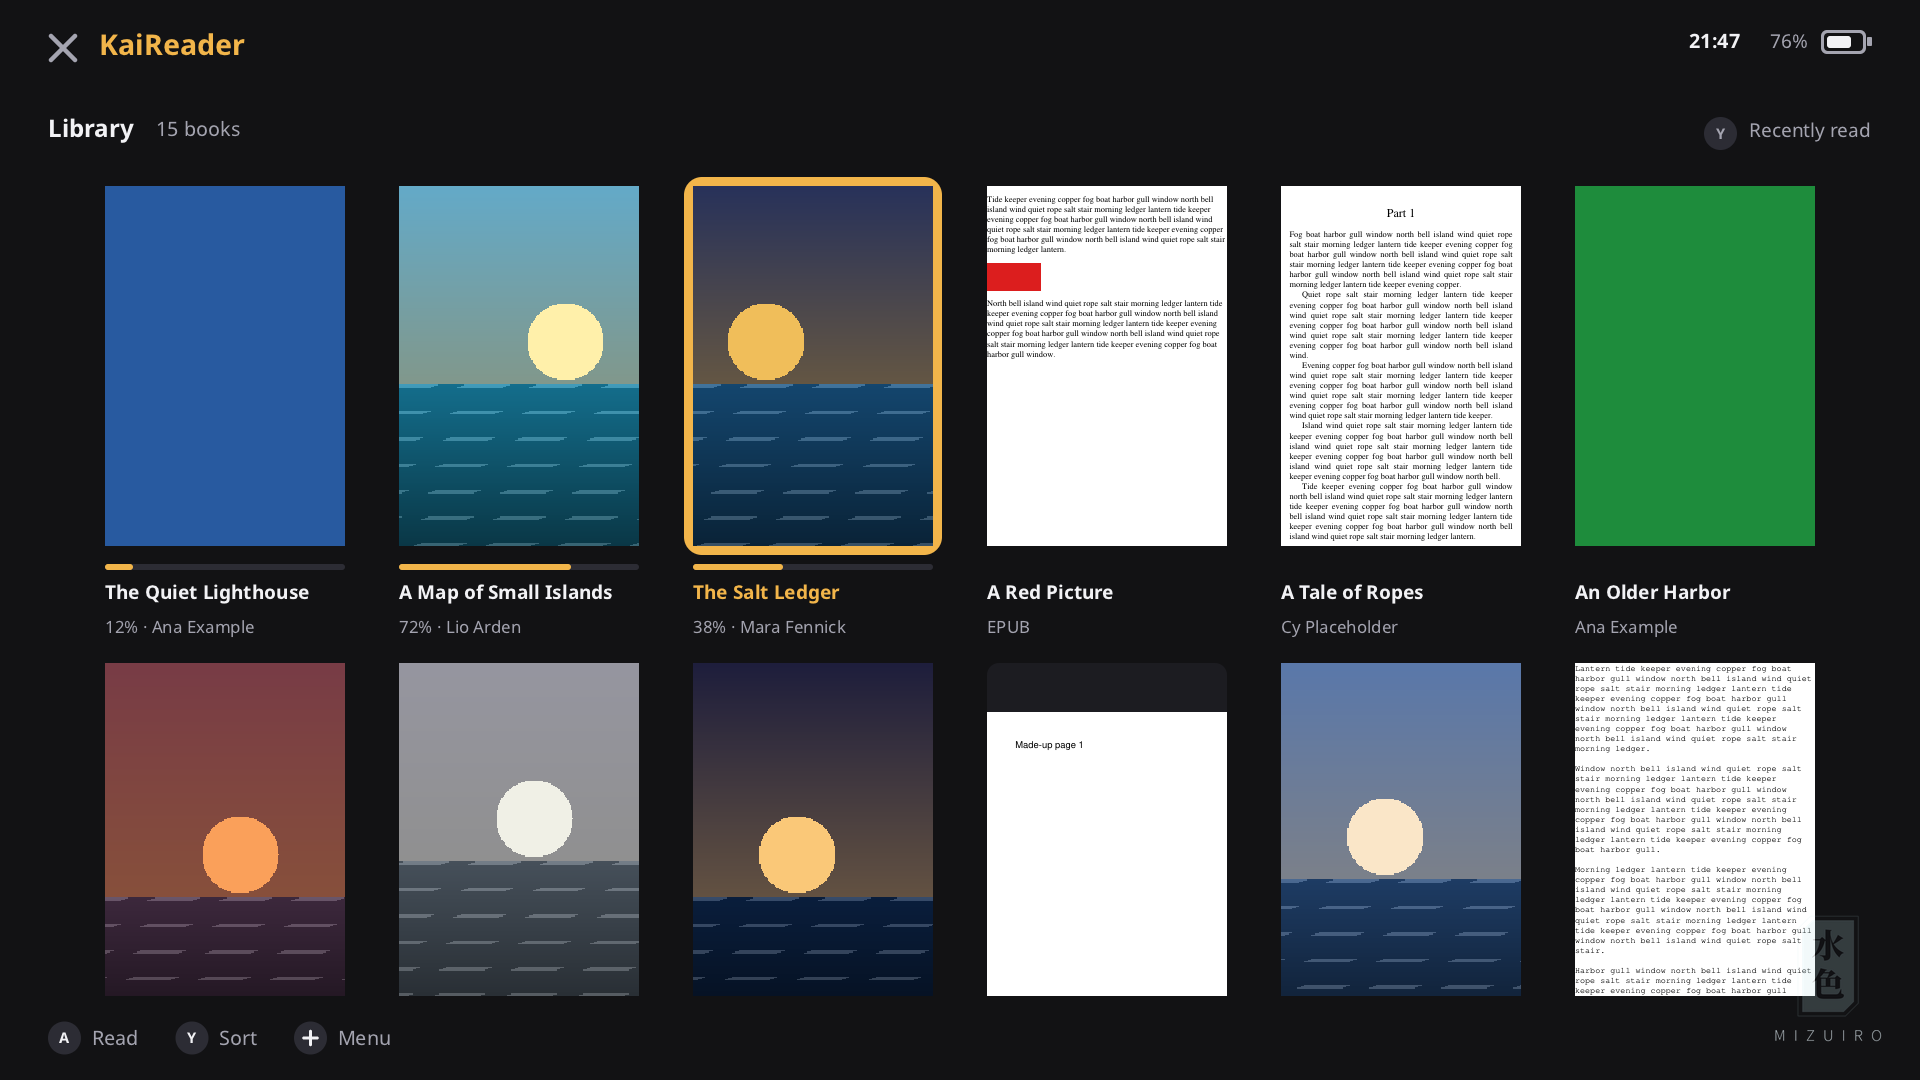
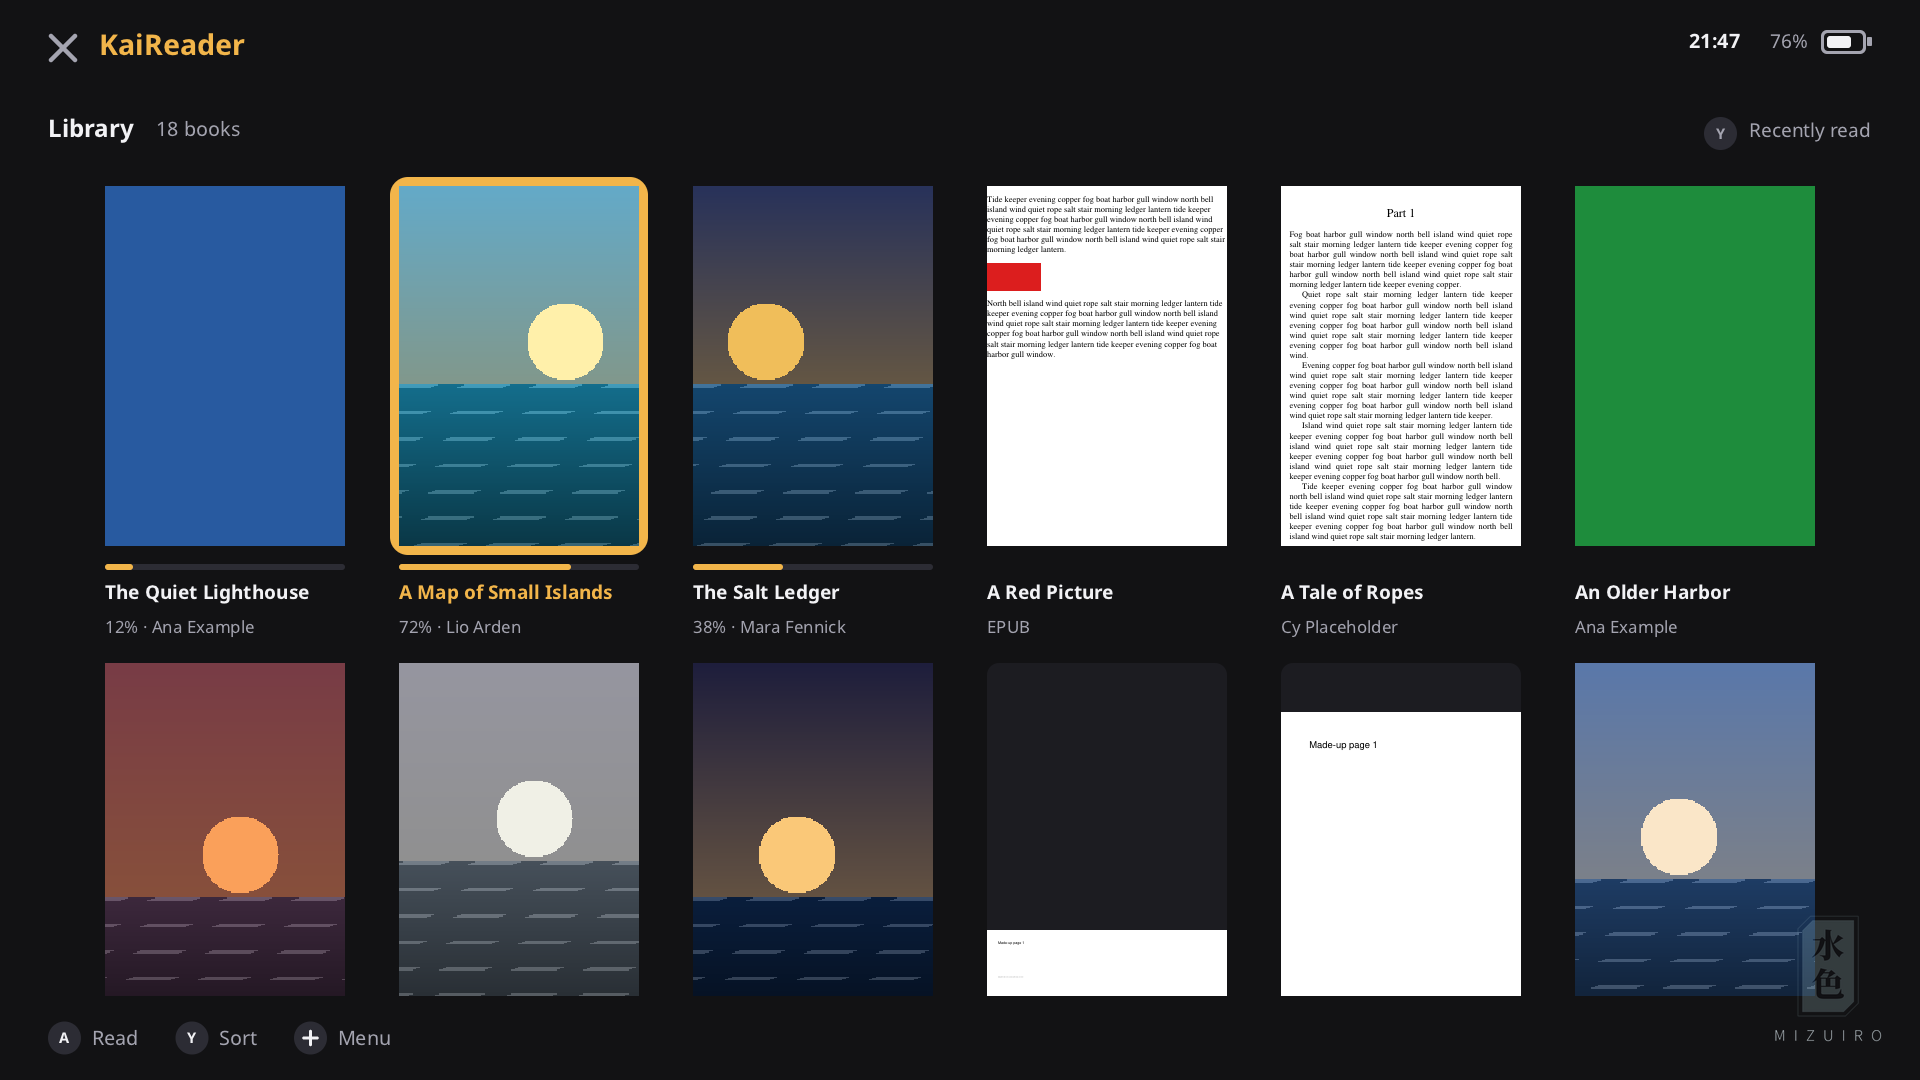
chore: version 0.4.0
The README shows the network folder's library, the list view and
favorites.

Changed region(s): [[0.5, 0.6111, 0.9688, 0.9472], [0.1875, 0.1528, 0.5, 0.5806]]

diff --git a/README.md b/README.md
@@ -21,9 +21,13 @@ comics (**CBZ**, **CBR**, **CB7**, **CBT**), **FB2**, **MOBI**, **TXT** and
 |------------------------------|--------------------|----------|
 | ![Two pages](docs/screenshots/epub-two-pages.png) | ![Sepia](docs/screenshots/epub-sepia-big.png) | ![Settings](docs/screenshots/settings-display.png) |
 
+| A network folder's books | As a list | Favorites |
+|--------------------------|-----------|-----------|
+| ![Network folder](docs/screenshots/network.png) | ![List](docs/screenshots/library-list.png) | ![Favorites](docs/screenshots/library-favorites-stars.png) |
+
 The screenshots show made-up books.
 
-> **Version 0.3, a pre-release: still young.** Only in English for now; book
+> **Version 0.4, a pre-release: still young.** Only in English for now; book
 > servers (OPDS, Calibre-Web, Kavita, Komga), public-domain catalogs and the
 > other languages come next.
 
@@ -33,7 +37,8 @@ The screenshots show made-up books.
 ## What it can do
 
 - **Library**: every book in `sdmc:/books` (and its folders), with its cover,
-  title, author and how far you've read. Sorted by **recently read**, **title**,
+  title, author and how far you've read. Sorted by **recently read**, your
+  **favorites**, **title**,
   **author** (by surname, when the book gives it) or **genre** (the book's
   subject), with the author or genre above each group.
 - **Reading**: books that flow (EPUB, FB2, MOBI, TXT) are laid out for the
@@ -41,9 +46,15 @@ The screenshots show made-up books.
   black: the text and the paper change, pictures keep their colors). PDFs and
   comics show their own pages, fitted to the screen.
 - **Network folders**: a Windows shared folder (SMB), a NAS or Nextcloud
-  (WebDAV), or an FTP or SFTP server (Settings > Network folder). **X** in the library
-  switches between its books and the SD card's; one you open is copied to
-  `sdmc:/books/Network/` and stays in your library, to read without the network.
+  (WebDAV), or an FTP or SFTP server (Settings > Network folder). **X** in the
+  library switches between its books and the SD card's, both shown the same
+  way: KaiReader looks through the folder and its folders, and reads each
+  book's cover and title over the network (only the few parts it needs). A book
+  you open is copied to the card first, so it opens at once the next time.
+- **Favorites**: hold your finger on a cover, or choose "Add to favorites" in
+  the + menu; Favorites is one of the sorts (Y).
+- **A grid or a list**: covers, or a list with more of each book (the + menu,
+  or Settings > Library).
 - **Zoom** on PDFs and comics: up and down, or two fingers, up to 3×; the left
   stick or a finger moves the page, drawn sharp at the screen's resolution.
 - **Bookmarks**: the left stick pressed in marks the page; the Contents panel
@@ -70,16 +81,17 @@ The screenshots show made-up books.
 | **X** | SD card or network folder | Contents and bookmarks |
 | **Left stick** pressed | | Bookmark the page |
 | **Right stick** pressed | Upright or lying down | Upright or lying down |
-| **Y** | Sort by: recent, title, author, genre | Colors |
+| **Y** | Sort by: recent, favorites, title, author, genre | Colors |
 | **−** | | Show or hide the bars |
 | **B** | | Back to the library |
-| **+** | Menu: Settings, Look for books again, Exit | Menu: Contents, Library, Settings, Exit |
+| **+** | Menu: favorite, SD card or network folder, grid or list, look again, Settings, Exit | Menu: Contents, Bookmark, Library, Settings, Exit |
 
 The right stick moves like the D-pad. Upright, every direction turns with the
 console: up is up as you hold it.
 
 On the touch screen: tap the right or left side of the page to turn it, or
-swipe; tap the middle for the bars.
+swipe; tap the middle for the bars. In the library, hold a cover to make it a
+favorite.
 
 ## Install
 
@@ -98,8 +110,10 @@ the card, but no app can list them. Copy your books with
 on the console and leaves your files on the PC as they are, or rename them
 first. KaiReader shows each book's real title, from inside the book.
 
-KaiReader keeps its files next to the NRO: `shelf.txt` (where you left each
-book), `settings.txt` and `covers/`.
+KaiReader keeps its files next to the NRO: `shelf.txt` and `shelf-network.txt`
+(where you left each book, and your favorites), `settings.txt`,
+`bookmarks.txt`, `network.txt` (the network folder's account) and `covers/`.
+Books opened from the network folder are copied to `sdmc:/books/.network/`.
 
 ## Build
 
